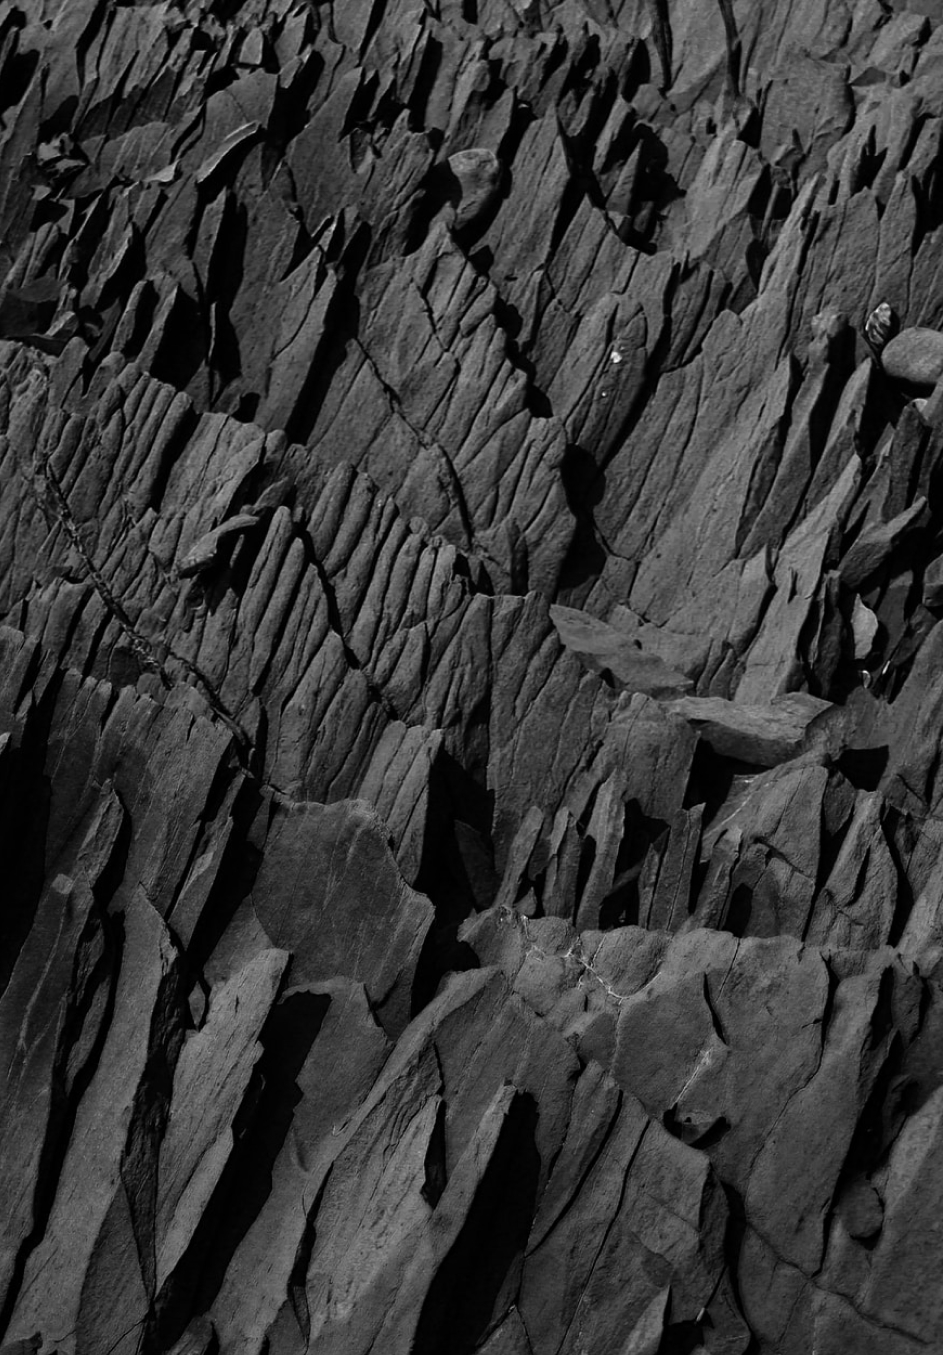
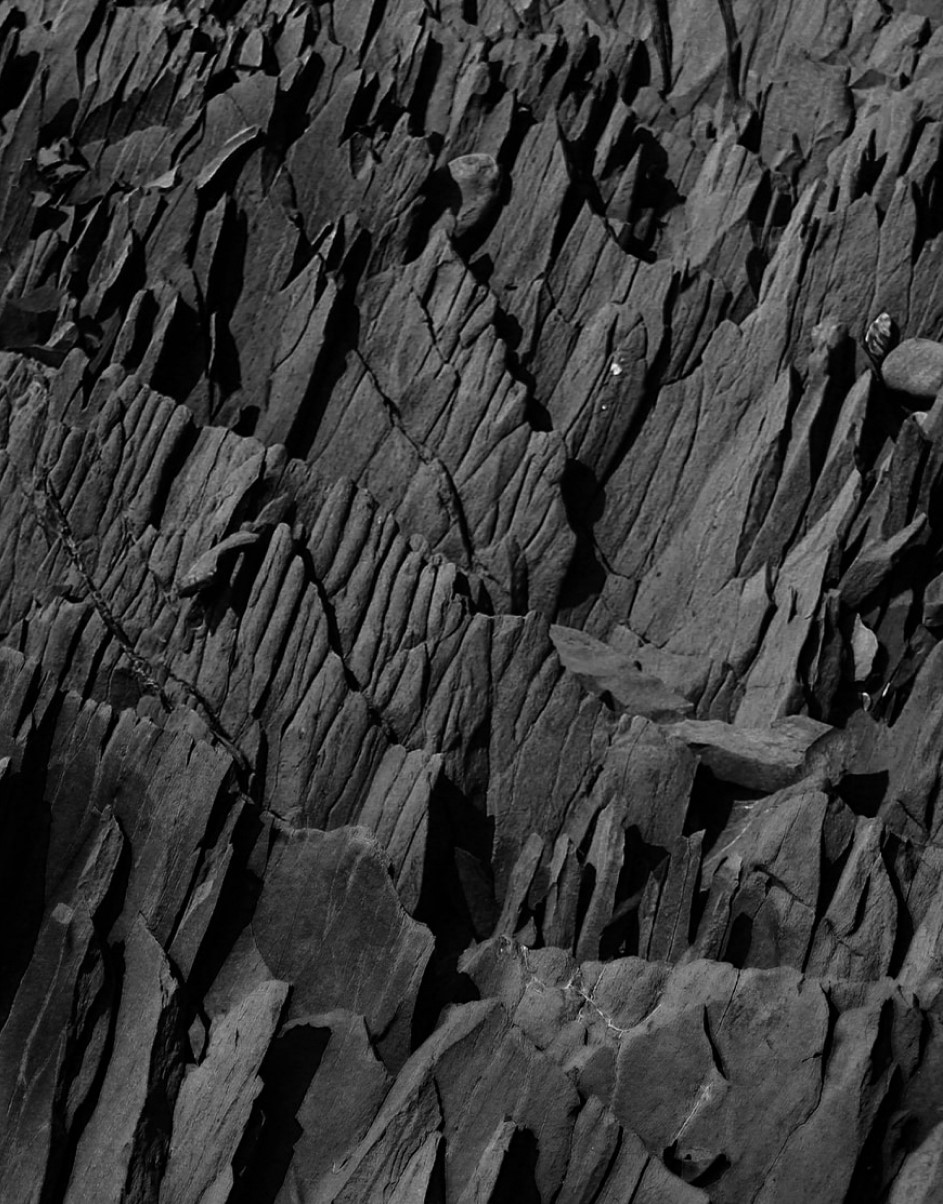
bg css size

diff --git a/css/main.css b/css/main.css
@@ -92,7 +92,7 @@ a{	text-decoration: none;
 	display: flex;
 	flex-wrap: wrap;
 	background: url(../img/bg.jpg) no-repeat;
-	background-position: right bottom -24%;
+	background-position: right bottom;
 }
 
 #left{
